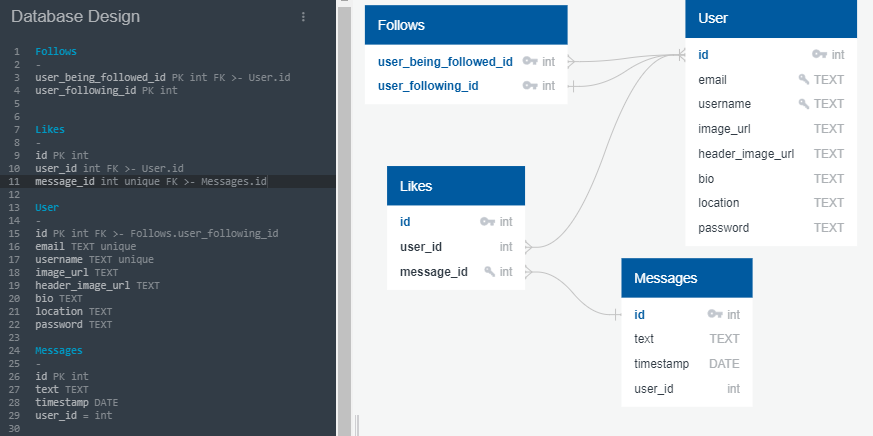
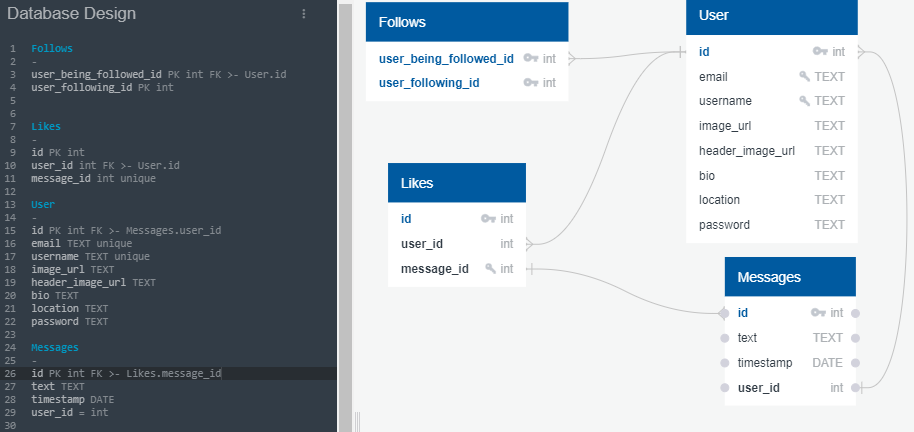
Implimented -like- functionality

diff --git a/templates/users/likes.html b/templates/users/likes.html
@@ -1,0 +1,36 @@
+{% extends 'users/detail.html' %}
+{% block user_details %}
+  <div class="col-sm-6">
+    <h1>Likes Page</h1>
+    <ul class="list-group" id="messages">
+    
+        {% for msg in messages %}
+        <li class="list-group-item">
+          <a href="/messages/{{ msg.id  }}" class="message-link"/>
+          <a href="/users/{{ msg.user.id }}">
+            <img src="{{ msg.user.image_url }}" alt="" class="timeline-image">
+          </a>
+          <div class="message-area">
+            <a href="/users/{{ msg.user.id }}">@{{ msg.user.username }}</a>
+            <span class="text-muted">{{ msg.timestamp.strftime('%d %B %Y') }}</span>
+            <p>{{ msg.text }}</p>
+          </div>
+
+          <!-- TODO: change graphic if post is liked-->
+          {% if userID != msg.user.id %}
+            <form method="POST" action="/users/add_like/{{ msg.id }}" id="messages-form">
+              <button class="
+                btn 
+                btn-sm 
+                {{'btn-primary' if msg.id in likes else 'btn-secondary'}}"
+              >
+                <i class="fa fa-thumbs-up"></i> 
+              </button>
+            </form>
+          {% endif %}
+        </li>
+      {% endfor %}
+
+    </ul>
+  </div>
+{% endblock %}

diff --git a/templates/home.html b/templates/home.html
@@ -51,15 +51,19 @@
               <span class="text-muted">{{ msg.timestamp.strftime('%d %B %Y') }}</span>
               <p>{{ msg.text }}</p>
             </div>
-            <form method="POST" action="/users/add_like/{{ msg.id }}" id="messages-form">
-              <button class="
-                btn 
-                btn-sm 
-                {{'btn-primary' if msg.id in likes else 'btn-secondary'}}"
-              >
-                <i class="fa fa-thumbs-up"></i> 
-              </button>
-            </form>
+
+            <!-- TODO: change graphic if post is liked-->
+            {% if userID != msg.user.id %}
+              <form method="POST" action="/users/add_like/{{ msg.id }}" id="messages-form">
+                <button class="
+                  btn 
+                  btn-sm 
+                  {{'btn-primary' if msg.id in likes else 'btn-secondary'}}"
+                >
+                  <i class="fa fa-thumbs-up"></i> 
+                </button>
+              </form>
+            {% endif %}
           </li>
         {% endfor %}
       </ul>

diff --git a/templates/users/edit-profile.html b/templates/users/edit-profile.html
@@ -1,0 +1,25 @@
+{% extends 'base.html' %}
+
+{% block body_class %}onboarding{% endblock %}
+
+{% block content %}
+
+  <div class="row justify-content-md-center">
+  <div class="col-md-7 col-lg-5">
+    <h2 class="join-message">Edit Profile</h2>
+    <form method="POST" id="user_form">
+      {{ form.hidden_tag() }}
+
+      {% for field in form if field.widget.input_type != 'hidden' %}
+        {% for error in field.errors %}
+          <span class="text-danger">{{ error }}</span>
+        {% endfor %}
+        {{ field(placeholder=field.label.text, class="form-control") }}
+      {% endfor %}
+
+      <button class="btn btn-primary btn-lg btn-block">Update Profile!</button>
+    </form>
+  </div>
+</div>
+
+{% endblock %}

diff --git a/templates/users/show.html b/templates/users/show.html
@@ -17,6 +17,19 @@
             <span class="text-muted">{{ message.timestamp.strftime('%d %B %Y') }}</span>
             <p>{{ message.text }}</p>
           </div>
+
+          {% if userID != message.user.id %}
+            <form method="POST" action="/users/add_like/{{ message.id }}" id="messages-form">
+              <button class="
+                btn 
+                btn-sm 
+                {{'btn-primary' if message.id in likes else 'btn-secondary'}}"
+              >
+                <i class="fa fa-thumbs-up"></i> 
+              </button>
+            </form>
+          {% endif %}
+
         </li>
 
       {% endfor %}

diff --git a/templates/users/detail.html b/templates/users/detail.html
@@ -31,7 +31,9 @@
           </li>
           <li class="stat">
             <p class="small">Likes</p>
-            <h4>TBD</h4>
+            <h4>
+              <a href="/users/{{ user.id }}/likes">{{ user.likes | length }}</a>
+            </h4>
           </li>
           <div class="ml-auto">
             {% if g.user.id == user.id %}

diff --git a/app.py b/app.py
@@ -4,8 +4,8 @@ from flask import Flask, render_template, request, flash, redirect, session, g
 from flask_debugtoolbar import DebugToolbarExtension
 from sqlalchemy.exc import IntegrityError
 
-from forms import UserAddForm, LoginForm, MessageForm
-from models import db, connect_db, User, Message
+from forms import UserAddForm, LoginForm, MessageForm, EditUserForm
+from models import db, connect_db, User, Message, Likes
 
 CURR_USER_KEY = "curr_user"
 
@@ -142,7 +142,7 @@ def list_users():
 
     return render_template('users/index.html', users=users)
 
-# TODO:
+# TODO: add like buttons to messages
 @app.route('/users/<int:user_id>')
 def users_show(user_id):
     """Show user profile."""
@@ -157,7 +157,7 @@ def users_show(user_id):
                 .order_by(Message.timestamp.desc())
                 .limit(100)
                 .all())
-    return render_template('users/show.html', user=user, messages=messages)
+    return render_template('users/show.html', user=user, messages=messages, userID = session[CURR_USER_KEY])
 
 
 @app.route('/users/<int:user_id>/following')
@@ -213,12 +213,48 @@ def stop_following(follow_id):
 
     return redirect(f"/users/{g.user.id}/following")
 
-
+# TODO:
 @app.route('/users/profile', methods=["GET", "POST"])
 def profile():
     """Update profile for current user."""
 
-    # IMPLEMENT THIS
+    # IMPLEMENT THIS 
+    user_num = session[CURR_USER_KEY] 
+
+    if not user_num:
+        flash('Must be logged in to view this page')
+        return redirect('/login')
+
+    form = EditUserForm(request.form)
+    user = User.query.get_or_404(user_num)
+    
+    if form.validate_on_submit():
+        # handle post request
+        
+        #confirm password is correct
+        if not User.authenticate(user.username, form.password.data):
+            flash ("Password incorrect. Type in current password to update", 'danger')
+            return redirect('/users/profile')
+
+        #Confirm new username doesn't exist
+        user.username = form.username.data
+        user.email = form.email.data
+        user.bio = form.bio.data
+        user.image_url = form.image_url.data
+        user.header_image_url = form.header_image_url.data
+        
+        db.session.commit()
+
+        return redirect(f'/users/{user_num}')
+    
+    else:
+        form.username.data = user.username
+        form.email.data = user.email
+        form.bio.data = user.bio
+        form.image_url.data = user.image_url
+        form.header_image_url.data = user.header_image_url
+
+        return render_template('users/edit-profile.html', form=form)
 
 
 @app.route('/users/delete', methods=["POST"])
@@ -297,18 +333,54 @@ def homepage():
     - anon users: no messages
     - logged in: 100 most recent messages of followed_users
     """
-
+    
+    # TODO:
     if g.user:
-        messages = (Message
-                    .query
-                    .order_by(Message.timestamp.desc())
-                    .limit(100)
-                    .all())
+        following_ids = [f.id for f in g.user.following]
+        following_ids.append(g.user.id)
+        likes = [l.id for l in g.user.likes]
+        
+        messages = (Message.query.filter(Message.user_id.in_(following_ids)).order_by(Message.timestamp.desc()).limit(100).all())
 
-        return render_template('home.html', messages=messages)
+        return render_template('home.html', messages=messages, userID = session[CURR_USER_KEY], likes=likes)
 
     else:
         return render_template('home-anon.html')
+
+
+# TODO: Add liked post to database
+# FIXME: prevent page refresh & remain on current page (for better UE)
+@app.route('/users/add_like/<int:msg_id>', methods=["POST"])
+def handle_new_likes(msg_id):
+    msg = Message.query.get_or_404(msg_id)
+    likes = [l.id for l in g.user.likes]
+    
+    if msg_id in likes:
+        liked_msg = Likes.query.filter_by(message_id = msg_id).first()
+        db.session.delete(liked_msg)
+        db.session.commit()
+        return redirect(f'/users/{session[CURR_USER_KEY]}/likes')    
+
+    else: 
+        new_like = Likes(user_id=session[CURR_USER_KEY], message_id=msg_id) 
+        db.session.add(new_like)
+        db.session.commit()
+
+        return redirect(f'/users/{session[CURR_USER_KEY]}/likes')
+
+
+
+# TODO: handle page showing posts user has liked
+@app.route('/users/<userID>/likes')
+def get_likes_page(userID):
+    user = User.query.get_or_404(userID)
+
+    likes = [l.id for l in g.user.likes]
+    print(f'likes_ids = {likes}')
+    messages = (Message.query.filter(Message.id.in_(likes)).order_by(Message.timestamp.desc()).all())
+    print(f'Messages = {messages}')
+    return render_template('users/likes.html', user=user, messages=messages, likes=likes)
+
 
 
 ##############################################################################

diff --git a/forms.py b/forms.py
@@ -23,3 +23,14 @@ class LoginForm(FlaskForm):
 
     username = StringField('Username', validators=[DataRequired()])
     password = PasswordField('Password', validators=[Length(min=6)])
+
+
+class EditUserForm(FlaskForm):
+    """Form for adding users."""
+
+    username = StringField('Username', validators=[DataRequired()])
+    email = StringField('E-mail', validators=[DataRequired(), Email()])
+    image_url = StringField('Profile Image URL')
+    header_image_url = StringField('Header Image URL')
+    bio = TextAreaField('Bio', validators=[Length(max=250)])
+    password = PasswordField('Password', validators=[Length(min=6)])
